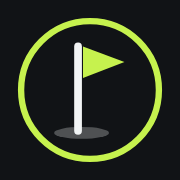
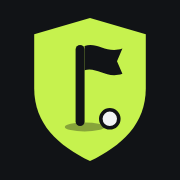
Nuevo símbolo de acgolf: escudo lima con bandera y bola (E2)
Claude-Session: https://claude.ai/code/session_01QaXUoVUNfxxEV3uQyYNQot

diff --git a/acgolf-es/instalar.html b/acgolf-es/instalar.html
@@ -7,7 +7,7 @@
 <meta name="description" content="Cómo instalar la app acgolf en iPhone o Android, paso a paso.">
 <meta name="theme-color" content="#111316">
 <link rel="icon" href="icon-192.png" type="image/png">
-<link rel="apple-touch-icon" href="icon-180.png?v=2">
+<link rel="apple-touch-icon" href="icon-180.png?v=3">
 <link rel="manifest" href="manifest.json">
 <link rel="preconnect" href="https://fonts.googleapis.com">
 <link href="https://fonts.googleapis.com/css2?family=Archivo:wght@500;700;800;900&display=swap" rel="stylesheet">

diff --git a/acgolf-es/app-golf.html b/acgolf-es/app-golf.html
@@ -8,7 +8,7 @@
 <link rel="canonical" href="https://acgolf.es/app-golf.html">
 <meta name="theme-color" content="#111316">
 <link rel="icon" href="icon-192.png" type="image/png">
-<link rel="apple-touch-icon" href="icon-180.png?v=2">
+<link rel="apple-touch-icon" href="icon-180.png?v=3">
 <meta property="og:type" content="website">
 <meta property="og:locale" content="es_ES">
 <meta property="og:site_name" content="acgolf">
